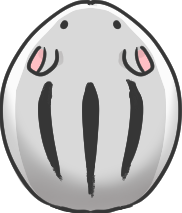
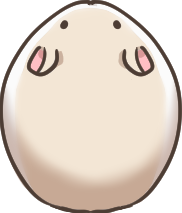
Design: 4번 5번 햄스터 적용

diff --git a/Server/app.js b/Server/app.js
@@ -334,11 +334,6 @@ app.post('/auth/firebase', (req, res) => {
                     }
 
                     const newUserId = result2.insertId;
-
-                    // 기본 캐릭터 + 4번 캐릭터(있다면) 지급
-                    // 100, 102, 103, 104 대신 실제 존재하는 ID들로 지급하는 게 좋지만, 일단 기본 로직 유지하되 FK 체크 필요
-                    // 간단히: 방금 찾은 defaultCharId만 일단 지급
-
                     const invValues = [[newUserId, defaultCharId]];
 
                     connection.query("INSERT INTO user_inventory (user_id, character_id) VALUES ?", [invValues], (err3) => {
